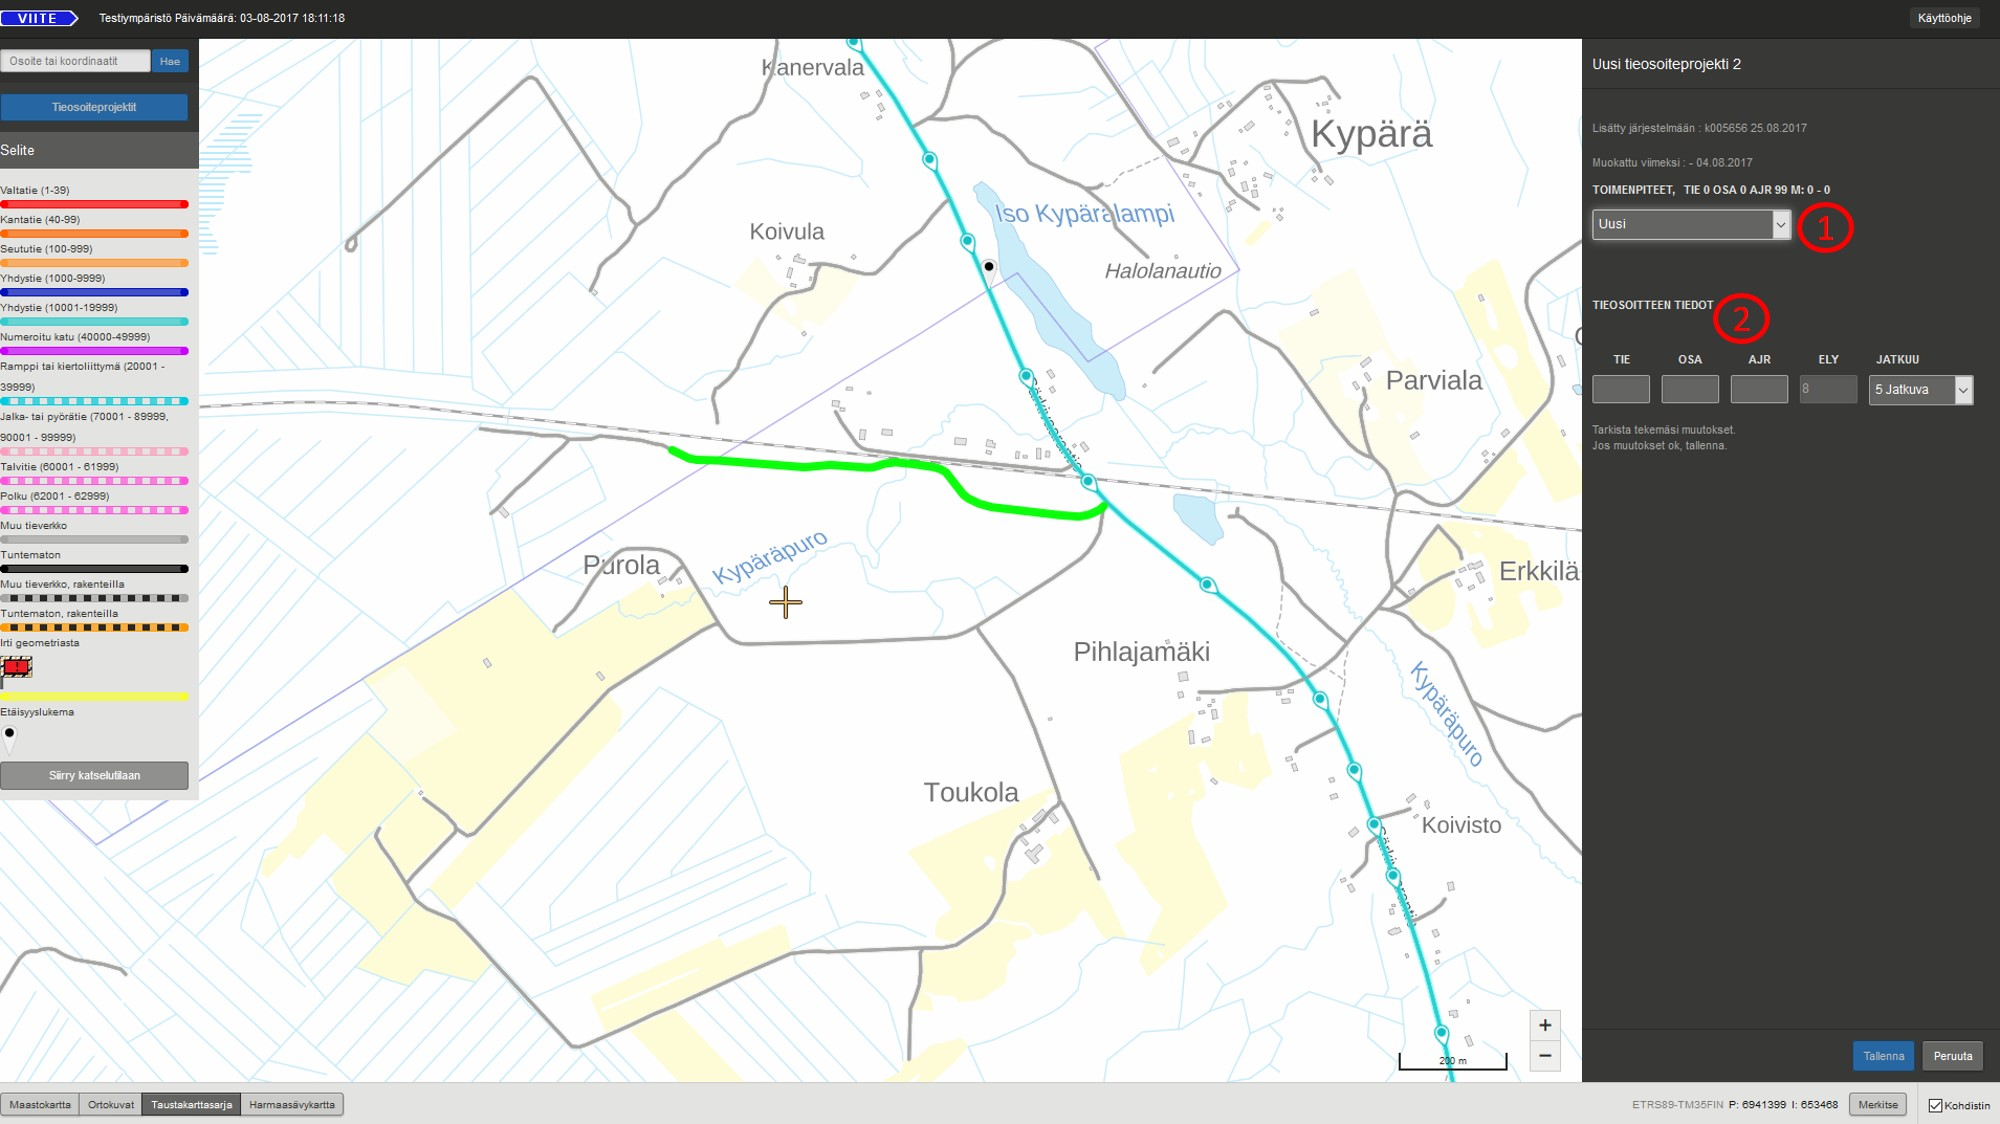
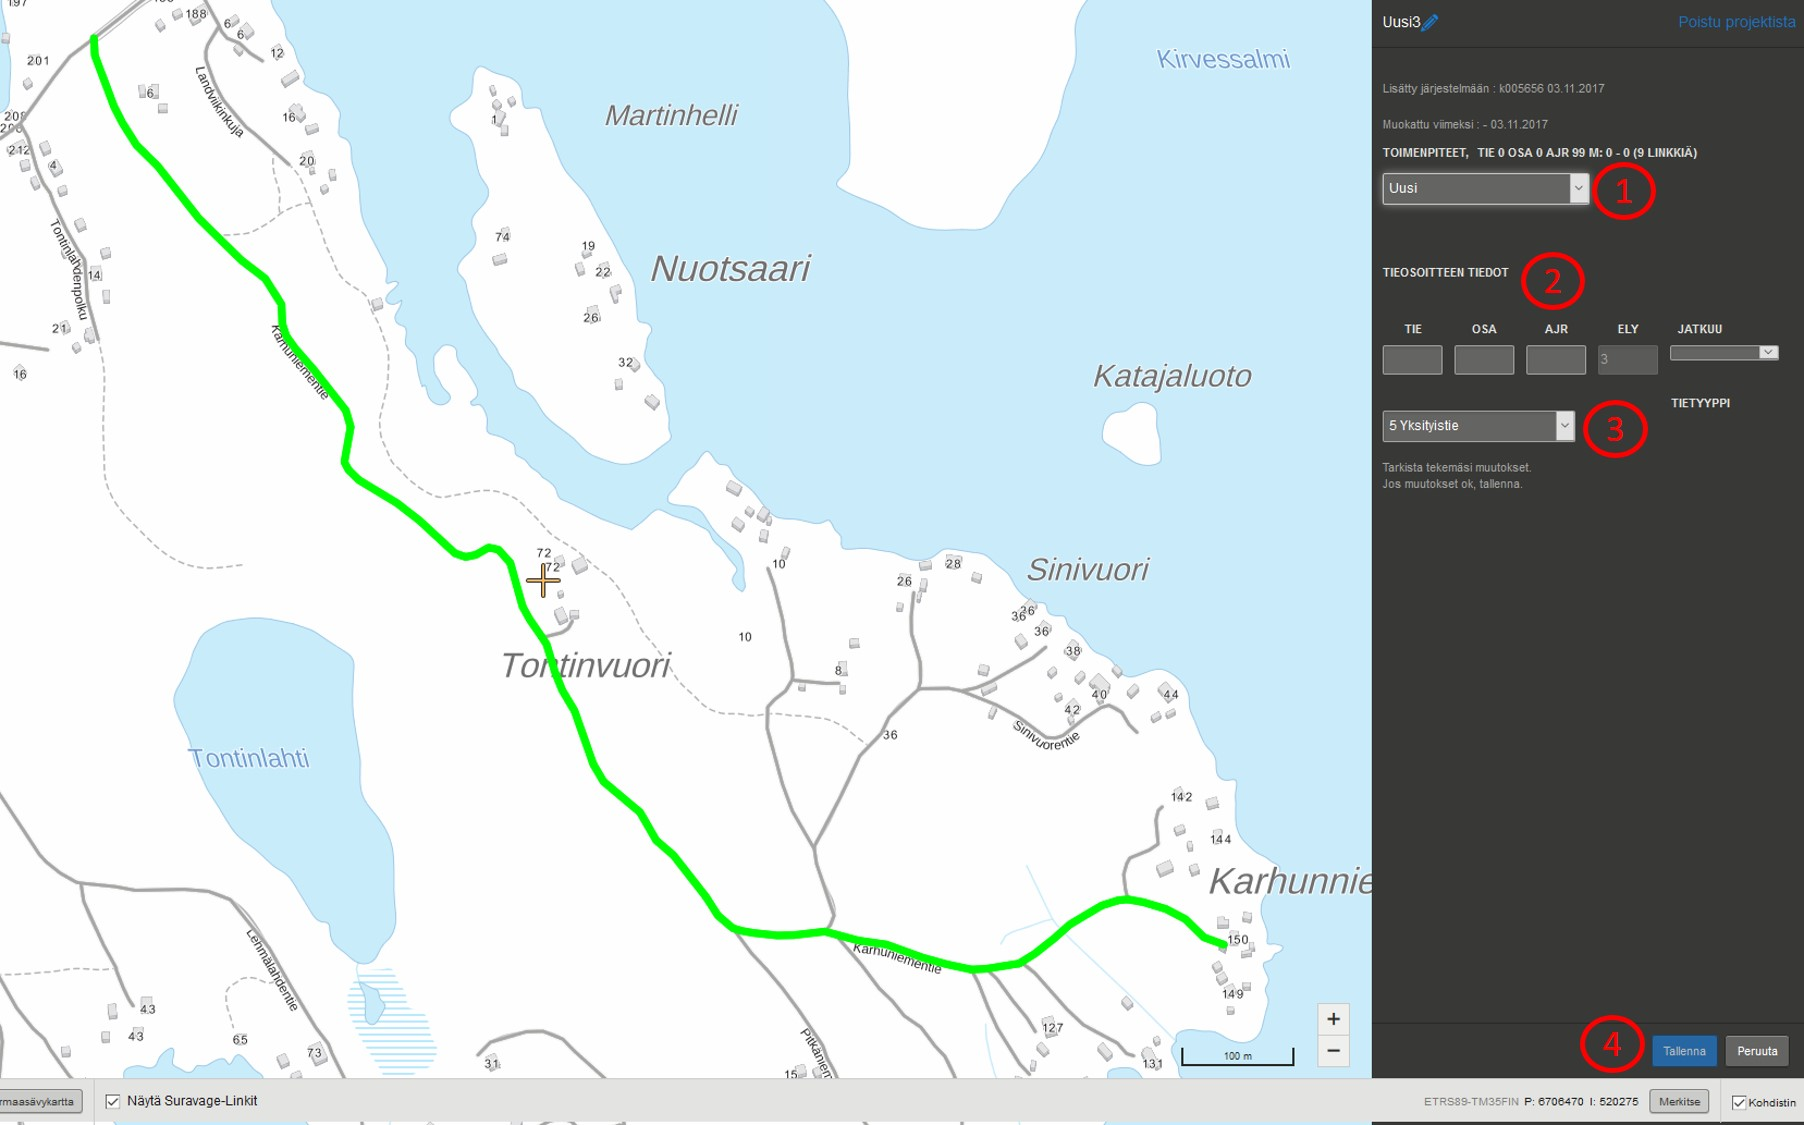
Update VIITE UI manual, Chapter 11.1.2 Uusi

diff --git a/viite-UI/manual/index.md b/viite-UI/manual/index.md
@@ -504,15 +504,19 @@ T&auml;m&auml;n j&auml;lkeen Jatka toimenpiteisiin-painiketta, jolla siirryt&aum
 11.1.2 Uusi
 --------------------------
 
-Toimenpiteell&auml; m&auml;&auml;ritet&auml;&auml;n uusi tieosoite tieosoitteettomille linkeille. Tieosoitteettomia linkkej&auml;, jotka piirtyv&auml;t kartalle harmaina tai tuntemattomia mustia linkkej&auml;, joissa on kysymysmerkkisymboli tai suravage-linkkej&auml;, voi valita kerta- tai tuplaklikkauksella, kuten muitakin tielinkkej&auml;. Tuplaklikkaus valitsee yhden tielinkin. Kertaklikkaus valitsee homogeenisen jakson, jossa k&auml;ytet&auml;&auml;n VVH:n tienumeroa ja tieosanumeroa. Tienumeron tai tieosanumeron puuttuessa valinnassa k&auml;ytet&auml;&auml;n tienime&auml;.
+Toimenpiteell&auml; m&auml;&auml;ritet&auml;&auml;n uusi tieosoite tieosoitteettomille linkeille. Tieosoitteettomia muun tieverkon linkkej&auml;, jotka piirtyv&auml;t kartalle harmaina tai tuntemattomia mustia linkkej&auml;, joissa on kysymysmerkkisymboli tai suravage-linkkej&auml;, voi valita kerta- tai tuplaklikkauksella, kuten muitakin tielinkkej&auml;. Tuplaklikkaus valitsee yhden tielinkin ja shit+tuplaklikkauksella voi lis&auml;t&auml; tai poistaa valintaan linkkej&auml; yksi kerrallaan. Kertaklikkaus valitsee homogeenisen jakson, jossa k&auml;ytet&auml;&auml;n VVH:n tienumeroa ja tieosanumeroa. Tienumeron tai tieosanumeron puuttuessa valinnassa k&auml;ytet&auml;&auml;n tienime&auml;. Shift+kertaklikkauksella voi lis&auml;t&auml; aiempaan valintaan koko homogeenisen jakson.
 
 Valitut tielinkit n&auml;kyv&auml;t kartalla vihre&auml;ll&auml; korostettuna. Kun valitaan Toimenpiteet-alasvetovalikosta 'Uusi' (1) lomakkeelle avautuvat kent&auml;t uuden tieosoitteen tiedoille (2). Jos valitulla tieosuudella on jo olemassa VVH:ssa tienumero ja tieosanumero, ne esit&auml;yttyv&auml;t kenttiin automattisesti.
 
 ![Uusi tieosoite](k43.JPG)
 
-_Kun toimenpidevalikosta valitaan 'Uusi', oikeaan laitaan ilmestyy n&auml;kyviin kent&auml;t uuden tieosoitteen sy&ouml;tt&auml;mist&auml; varten._
+_Kun toimenpidevalikosta valitaan 'Uusi', oikeaan laitaan ilmestyy n&auml;kyviin kent&auml;t uuden tieosoitteen sy&ouml;tt&auml;mist&auml; varten._ 
 
-Muutokset tallennetaan Tallenna-painikkeella. Ennen tallennusta, muutokset voi perua Peruuta-painikkeesta. Kaikilla lomakkeen kentill&auml; tulee olla arvo ennen kuin tallentaminen on mahdollista.
+Tietyyppi&auml; voi muokata pudotusvalikosta (3). Jatkuu-arvo m&auml;&auml;r&auml;ytyy ensimm&auml;isell&auml; tallennuskerralla automaattisesti jatkuvaksi (5 Jatkuva). Muutokset tallennetaan Tallenna-painikkeella (4). Ennen tallennusta, muutokset voi perua Peruuta-painikkeesta. 
+
+Huom: Mik&auml;li jatkuvuutta t&auml;ytyy muokata, esimerkiksi jos kyseess&auml; on tien loppu, se tulee tehd&auml; seuraavasti. K&auml;ytt&auml;j&auml;n tulee klikata viimeinen "Uusi" toimenpiteell&auml; k&auml;sitelty linkki tieosan lopusta aktiiviseksi, jossa tien loppu sijaitsee. Lomakkeelle tulee tiedot linkin osoitteesta ja sille tehdyst&auml; toimenpiteest&auml;. Nyt linkin jatkuvuuskoodin muokkaaminen on mahdollista ja oikea koodi, esimerkiksi 1 Tien lopppu, valitaan pudotusvalikosta ja tallennetaan. P&auml;ivitetty tieto n&auml;kyy my&ouml;s yhteenvetotaulukossa tallennuksen j&auml;lkeen.   
+
+
 K&auml;ytt&ouml;liittym&auml; varoittaa virheilmoituksella jos uusi tieosoite on jo olemassa projektin alkup&auml;iv&auml;n&auml; tai se on varattuna toisessa tieosoiteprojektissa.
 
 ![Tieosoite on jo olemassa](k44.JPG)
